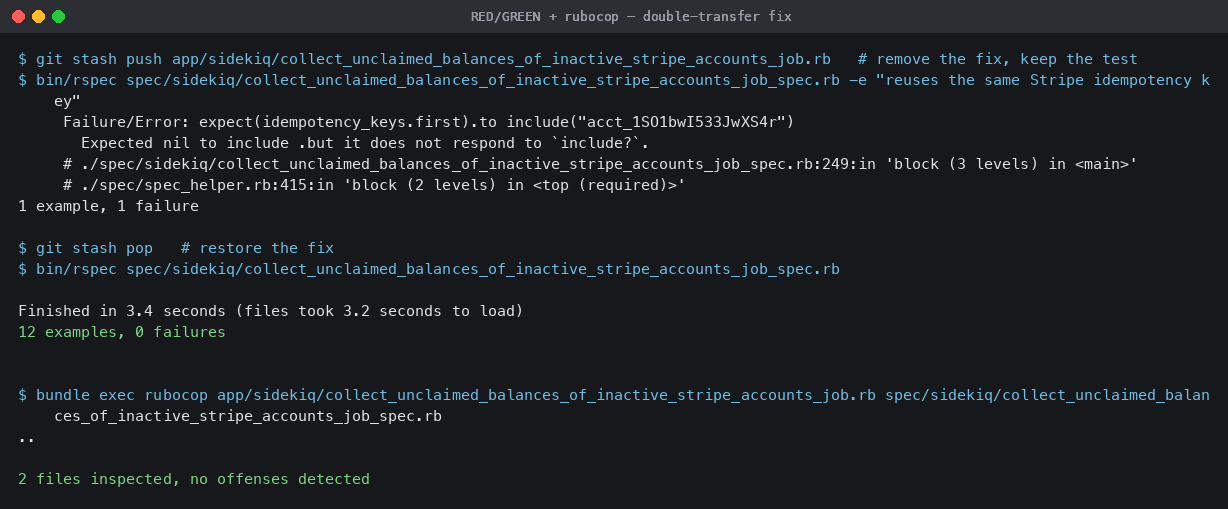
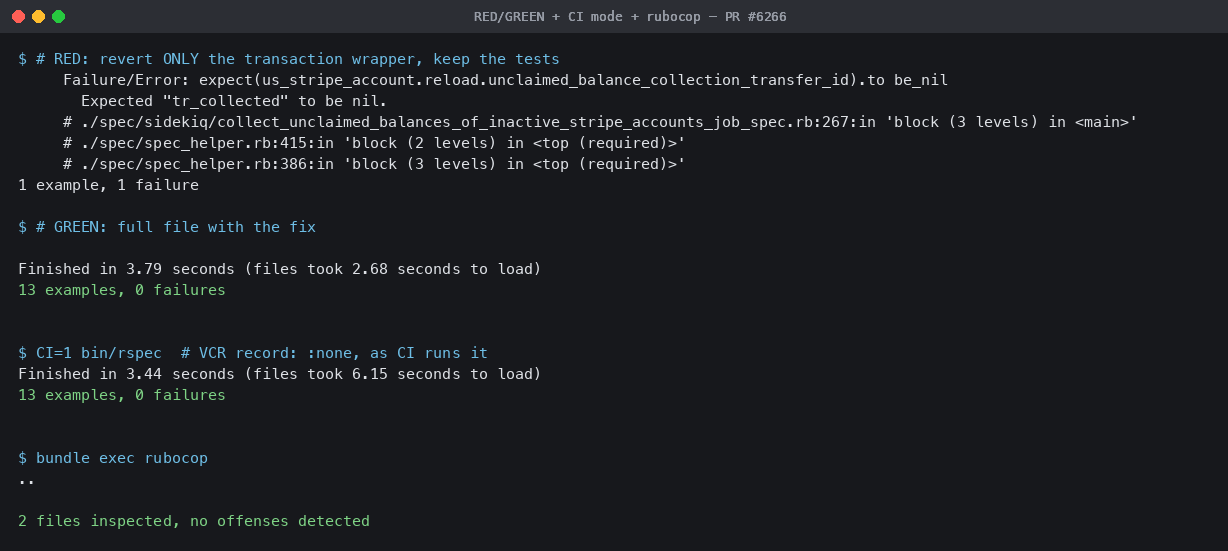
Make the collection atomic; correct the idempotency rationale
The review of the first version of this branch showed its premise was wrong.
The claimed double transfer — worker dies after Stripe::Transfer.create, retry
transfers again — cannot happen: the job re-reads the balance live from Stripe
before transferring, and Stripe debits the connected account synchronously, so
a retry reads 0 and skips the account before reaching the transfer at all.

What IS real is the inverse window. Recording the transfer id and moving our own
Balance rows were two separate writes, and the transfer id is what stops the
selection query from picking the account up again. So a worker killed after the
id was saved but part-way through the reassignment loop left those Balance rows
pointing at the dead merchant account forever, with no later run ever looking at
the account again. Both are local database writes, so they are now one
transaction: either the collection is recorded and the balances move, or neither.

The idempotency key stays, with an honest rationale. It does not protect Sidekiq
retries (see above); it protects against two executions overlapping, which this
job permits since it has no uniqueness lock — a cron double-fire or a manual
enqueue alongside the scheduled run can have both read a positive balance before
either transfers. The comment now says that instead of the retry story.

Specs replaced to match: one asserts the exact idempotency key string (the old
assertions passed on [nil, nil]), one covers the rollback. Verified the rollback
[…]

diff --git a/spec/sidekiq/collect_unclaimed_balances_of_inactive_stripe_accounts_job_spec.rb b/spec/sidekiq/collect_unclaimed_balances_of_inactive_stripe_accounts_job_spec.rb
@@ -211,19 +211,19 @@ describe CollectUnclaimedBalancesOfInactiveStripeAccountsJob do
       CollectUnclaimedBalancesOfInactiveStripeAccountsJob.new.perform
     end
 
-    # The transfer id is what stops the account from being selected again, and it is recorded
-    # in a separate statement AFTER the money has moved. Anything that kills the worker in
-    # between (a deploy recycling the pod, an OOM, an eviction) leaves the transfer unrecorded,
-    # so Sidekiq's retry re-selects the account. Without a stable idempotency key that retry
-    # is a second real transfer.
-    it "reuses the same Stripe idempotency key on a retry, so an interruption before the transfer id is recorded can't move the money twice" do
+    # Two executions can overlap: the job has no uniqueness lock, so a cron double-fire or a
+    # manual enqueue alongside the scheduled run can both read a positive balance before either
+    # of them transfers. Stripe collapses the second transfer into the first only if both carry
+    # the same idempotency key.
+    it "sends an idempotency key derived from the account and amount, so two overlapping runs can't both transfer" do
       us_stripe_account = create(:merchant_account, country: "US", currency: "usd", charge_processor_merchant_id: "acct_1SO1bwI533JwXS4r", created_at: 2.months.ago)
       create(:balance, user: us_stripe_account.user, merchant_account: us_stripe_account, amount_cents: 100_00)
 
+      # Stubbed rather than replayed from a cassette: this example is about the request the job
+      # sends, and it needs a positive balance on BOTH runs to represent two executions racing
+      # each other — which is exactly the state a cassette of a real sequence wouldn't have.
       allow(Stripe::Payout).to receive(:list).and_return(double(data: []))
       allow(Stripe::Charge).to receive(:list).and_return(double(data: []))
-      # Stubbed rather than replayed from a cassette: this example is about what the job sends
-      # to Stripe on a retry, and it needs a non-zero balance for the transfer to happen at all.
       allow(Stripe::Account).to receive(:retrieve).and_return(double(type: "custom", created: 5.years.ago.to_i))
       allow(Stripe::Balance).to receive(:retrieve).and_return(
         { "available" => [{ "amount" => 100_00 }], "pending" => [{ "amount" => 0 }] }
@@ -232,22 +232,40 @@ describe CollectUnclaimedBalancesOfInactiveStripeAccountsJob do
       idempotency_keys = []
       allow(Stripe::Transfer).to receive(:create) do |_params, opts|
         idempotency_keys << opts[:idempotency_key]
-        double(id: "tr_replayed")
+        double(id: "tr_collected")
       end
 
-      # First run: the money moves, then the worker dies before the id is recorded.
-      allow_any_instance_of(MerchantAccount).to receive(:update!).and_raise(Sidekiq::Shutdown)
-      expect { described_class.new.perform }.to raise_error(Sidekiq::Shutdown)
-      expect(us_stripe_account.reload.unclaimed_balance_collection_transfer_id).to be_nil
-
-      # Sidekiq retries. The account is still unstamped, so it is selected again.
-      allow_any_instance_of(MerchantAccount).to receive(:update!).and_call_original
       described_class.new.perform
 
-      expect(idempotency_keys.size).to eq(2)
-      expect(idempotency_keys.uniq.size).to eq(1), "the retry sent a different idempotency key, so Stripe would create a second transfer"
-      expect(idempotency_keys.first).to include("acct_1SO1bwI533JwXS4r")
-      expect(us_stripe_account.reload.unclaimed_balance_collection_transfer_id).to eq("tr_replayed")
+      # Asserted as the exact string: a nil key would satisfy a "both runs agree" check.
+      expect(idempotency_keys).to eq(["collect_unclaimed_balance_acct_1SO1bwI533JwXS4r_10000"])
+      expect(us_stripe_account.reload.unclaimed_balance_collection_transfer_id).to eq("tr_collected")
+    end
+
+    # The transfer id is what stops the account from being selected again, so saving it while
+    # leaving the Balance rows behind would strand them on the dead merchant account forever —
+    # no later run would ever look at the account again.
+    it "does not record the transfer id if moving the balances fails" do
+      us_stripe_account = create(:merchant_account, country: "US", currency: "usd", charge_processor_merchant_id: "acct_1SO1bwI533JwXS4r", created_at: 2.months.ago)
+      create(:balance, user: us_stripe_account.user, merchant_account: us_stripe_account, amount_cents: 100_00)
+
+      allow(Stripe::Payout).to receive(:list).and_return(double(data: []))
+      allow(Stripe::Charge).to receive(:list).and_return(double(data: []))
+      allow(Stripe::Account).to receive(:retrieve).and_return(double(type: "custom", created: 5.years.ago.to_i))
+      allow(Stripe::Balance).to receive(:retrieve).and_return(
+        { "available" => [{ "amount" => 100_00 }], "pending" => [{ "amount" => 0 }] }
+      )
+      allow(Stripe::Transfer).to receive(:create).and_return(double(id: "tr_collected"))
+
+      # The worker dies part-way through reassigning the balances.
+      allow_any_instance_of(Balance).to receive(:update!).and_raise(Sidekiq::Shutdown)
+
+      expect { described_class.new.perform }.to raise_error(Sidekiq::Shutdown)
+
+      # Rolled back together: the account stays selectable so the next run can finish the job,
+      # rather than being marked done with its balances stranded.
+      expect(us_stripe_account.reload.unclaimed_balance_collection_transfer_id).to be_nil
+      expect(us_stripe_account.user.unpaid_balances.where(merchant_account_id: us_stripe_account.id).sum(:holding_amount_cents)).to eq 100_00
     end
   end
 end

diff --git a/app/sidekiq/collect_unclaimed_balances_of_inactive_stripe_accounts_job.rb b/app/sidekiq/collect_unclaimed_balances_of_inactive_stripe_accounts_job.rb
@@ -37,14 +37,14 @@ class CollectUnclaimedBalancesOfInactiveStripeAccountsJob
       next unless actual_stripe_account_balance > 0
 
       # Transfer the money from Stripe connect account to Gumroad's platform Stripe account.
-      # The transfer id is recorded on the merchant account in the NEXT statement, and that
-      # record is the only thing stopping the query above from selecting this account again.
-      # So an interruption between the two — a deploy recycling the worker, an OOM kill, a
-      # pod eviction — leaves the money moved but unrecorded, and the retry moves it again.
-      # The idempotency key closes that window: Stripe replays the original transfer for 24
-      # hours instead of creating a second one, and the retry gets the same id to record.
-      # It is scoped to the account and the amount, so a legitimate later collection (a new
-      # balance three years from now) is a different key and not suppressed.
+      #
+      # The idempotency key guards against two runs overlapping. This job has no uniqueness
+      # lock, so a cron double-fire or a manual enqueue alongside the scheduled run can have
+      # two executions both read a positive balance before either transfers, and without a key
+      # that means two real transfers. Keying on the account and the amount makes the second
+      # one replay the first instead. (Ordinary Sidekiq retries are not the risk here: the
+      # balance is re-read live above, so once a transfer has succeeded a retry reads 0 and
+      # skips this account before reaching the transfer at all.)
       transfer = Stripe::Transfer.create({
                                            amount: actual_stripe_account_balance,
                                            currency: Currency::USD,
@@ -54,13 +54,22 @@ class CollectUnclaimedBalancesOfInactiveStripeAccountsJob
                                            stripe_account: stripe_account_id,
                                            idempotency_key: "collect_unclaimed_balance_#{stripe_account_id}_#{actual_stripe_account_balance}",
                                          })
-      merchant_account.update!(unclaimed_balance_collection_transfer_id: transfer.id)
 
-      # Move the unpaid balances in our records to be against Gumroad's platform Stripe account,
-      # as the money has been moved to Gumroad's platform Stripe account with the above transfer.
-      # Since this balance is at least 3 years old, no refunds or disputes are possible on it now.
-      merchant_account.user.unpaid_balances.where(merchant_account_id: merchant_account.id).where(holding_currency: Currency::USD).each do |balance|
-        balance.update!(merchant_account_id: MerchantAccount.gumroad(StripeChargeProcessor.charge_processor_id).id)
+      # Recording the transfer and moving our own records of the balance have to happen
+      # together. The transfer id is what stops the query above from selecting this account
+      # again, so if the id were saved and the balances then left behind — a worker killed
+      # part-way through the loop, a failing update — the account would never be looked at
+      # again and those Balance rows would stay pointing at the dead merchant account forever.
+      # Both statements are local database writes, so wrapping them costs nothing.
+      ApplicationRecord.transaction do
+        merchant_account.update!(unclaimed_balance_collection_transfer_id: transfer.id)
+
+        # Move the unpaid balances in our records to be against Gumroad's platform Stripe account,
+        # as the money has been moved to Gumroad's platform Stripe account with the above transfer.
+        # Since this balance is at least 3 years old, no refunds or disputes are possible on it now.
+        merchant_account.user.unpaid_balances.where(merchant_account_id: merchant_account.id).where(holding_currency: Currency::USD).each do |balance|
+          balance.update!(merchant_account_id: MerchantAccount.gumroad(StripeChargeProcessor.charge_processor_id).id)
+        end
       end
     end
   end
